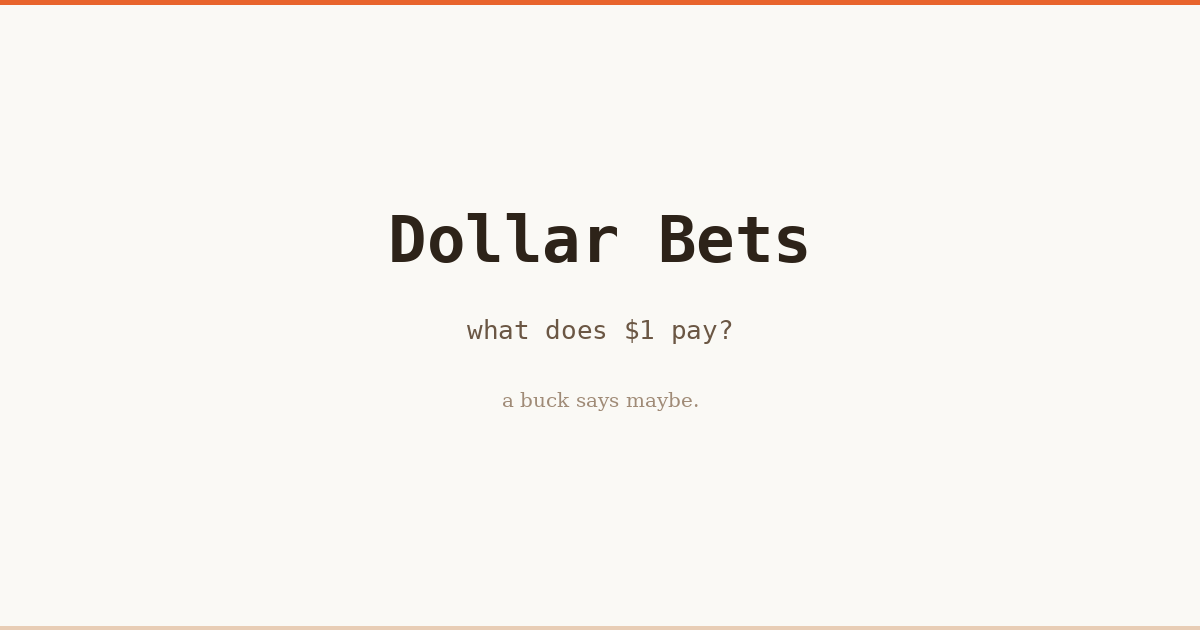
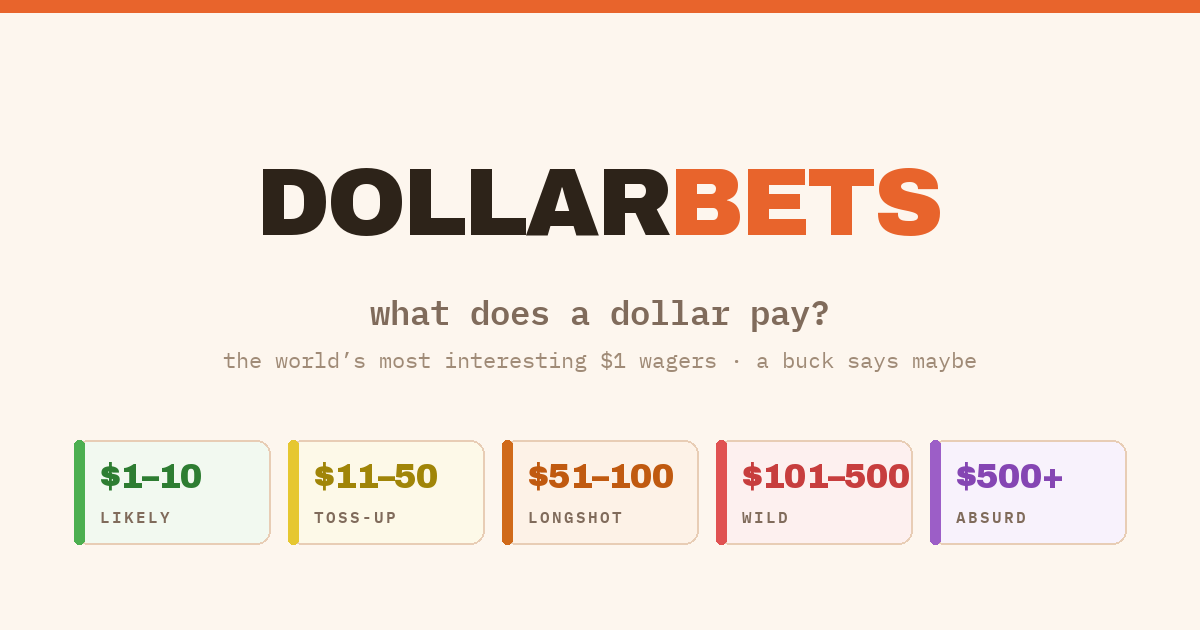
Link previews: today's longshot for the board, a new brand image for everything else (#19)
The reply under each card links to the board, and X showed the site-wide
og-image.png from April — a serif logo on cream. Two changes:

- share_card.render_og_board() draws a 1200x630 dark ticket of the day's
  filthy little longshot; generate.py writes it to /og-board.png on every
  deploy and the homepage's og:image / twitter:image point at it
  (page_shell gains og_image=; every other page keeps the site-wide image).
- src/og-image.png regenerated in the Ticket Stand style (wordmark, tagline,
  the five tier chips) by share_card.render_og_brand().
- The reply link carries utm_content=<board date>, so X fetches a fresh
  link card each day instead of serving the one it cached for the bare URL.

diff --git a/share_card.py b/share_card.py
@@ -436,6 +436,115 @@ def render_card(market, variant, output_path, board_date="", fonts_dir=None, pho
     img.save(output_path, "PNG", optimize=True)
     return True
 
+# ── Link-preview images (1200×630) ─────────────────────────────────────────
+
+OG_W, OG_H = 1200, 630
+
+
+def render_og_board(market, board_date, output_path, fonts_dir=None):
+    """The homepage link preview: today's filthy little longshot as a wide dark
+    ticket. Rebuilt on every deploy, so a link to the board shows today's
+    board, not a logo. Returns True on success."""
+    try:
+        from PIL import Image, ImageDraw
+    except ImportError:
+        return False
+    fonts_dir = fonts_dir or os.path.join(os.path.dirname(os.path.abspath(__file__)), ".fonts")
+    fonts = _Fonts(fonts_dir)
+    if not fonts.ok:
+        return False
+    _, _, _, bright = TIERS.get(market.get("tier", ""), TIER_DEFAULT)
+
+    img = Image.new("RGB", (OG_W, OG_H), INK)
+    draw = ImageDraw.Draw(img)
+    # notches on the long edges, like the ticket
+    ny = int(OG_H * 0.62)
+    for cx in (0, OG_W):
+        draw.ellipse((cx - 18, ny - 18, cx + 18, ny + 18), fill=PAPER)
+
+    x0, x1 = 64, OG_W - 64
+    y = 48
+    _wordmark(draw, fonts, x0, y, PAPER)
+    _draw_tracked(draw, (x1, y + 12), _stamp(board_date), fonts.mono(20, semibold=True), DARK_MUTE_2, 1, anchor_right=True)
+
+    y += 44 + 34
+    _draw_tracked(draw, (x0, y), "TODAY’S FILTHY LITTLE LONGSHOT", fonts.mono(18, semibold=True), LAVENDER, 4)
+    y += 18 + 22
+    f_title, lines, size = _fit_title(draw, market.get("title", ""), fonts, x1 - x0, sizes=(56, 48, 42), max_lines=3)
+    lh = int(size * 1.1)
+    for ln in lines:
+        _draw_tracked(draw, (x0, y), ln, f_title, PAPER, -1.2)
+        y += lh
+
+    # payout row on the baseline near the bottom
+    base_y = OG_H - 64
+    f_pays = fonts.mono(24, semibold=True)
+    pays_w = _text_w(draw, "$1 pays", f_pays)
+    payout_str = format_payout(market.get("payout", 0))
+    f_meta = fonts.mono(20, semibold=True)
+    platform = market.get("platform", "kalshi") or "kalshi"
+    pname = PLATFORM_NAMES.get(platform, platform.title())
+    pi = _priced_in(market.get("payout", 0))
+    meta = f"{pname} · {pi} priced in" if pi else pname
+    meta_w = _text_w(draw, meta, f_meta)
+    f_pay, psize = _fit_payout(draw, fonts, payout_str, 132, (x1 - x0) - pays_w - 20 - meta_w - 40, floor=80)
+    draw.text((x0, base_y), "$1 pays", font=f_pays, fill=DARK_MUTE, anchor="ls")
+    _draw_tracked(draw, (x0 + pays_w + 20, base_y), payout_str, f_pay, bright, -0.03 * psize, baseline=True)
+    _draw_tracked(draw, (x1, base_y - 4), meta, f_meta, DARK_MUTE_2, 0, anchor_right=True, baseline=True)
+    cap_top = f_pay.getbbox("0", anchor="ls")[1]
+    _dashed_h(draw, x0, x1, base_y + cap_top - 28, DARK_RULE, width=3)
+    _draw_tracked(draw, (x1, 48 + 44 + 34), "dollarbets.lol", fonts.mono(18), DARK_MUTE_2, 0, anchor_right=True)
+
+    os.makedirs(os.path.dirname(output_path) or ".", exist_ok=True)
+    img.save(output_path, "PNG", optimize=True)
+    return True
+
+
+def render_og_brand(output_path, fonts_dir=None):
+    """The site-wide link preview for every non-board page: wordmark, the
+    tagline, and the five payout tiers as ticket chips. Static; committed as
+    src/og-image.png."""
+    from PIL import Image, ImageDraw
+    fonts_dir = fonts_dir or os.path.join(os.path.dirname(os.path.abspath(__file__)), ".fonts")
+    fonts = _Fonts(fonts_dir)
+    img = Image.new("RGB", (OG_W, OG_H), PAPER)
+    draw = ImageDraw.Draw(img)
+    draw.rectangle((0, 0, OG_W, 12), fill=ORANGE)
+
+    f = fonts.display(96, 900)
+    w = _tracked_w(draw, "DOLLAR", f, -3)
+    total = w + _tracked_w(draw, "BETS", f, -3) - 3
+    x = (OG_W - total) // 2
+    _draw_tracked(draw, (x, 150), "DOLLAR", f, INK, -3)
+    _draw_tracked(draw, (x + w - 3, 150), "BETS", f, ORANGE, -3)
+
+    tag = "what does a dollar pay?"
+    ft = fonts.mono(34, semibold=True)
+    draw.text(((OG_W - _text_w(draw, tag, ft)) // 2, 290), tag, font=ft, fill=INK_2)
+    sub = "the world’s most interesting $1 wagers · a buck says maybe"
+    fs = fonts.mono(22)
+    draw.text(((OG_W - _text_w(draw, sub, fs)) // 2, 345), sub, font=fs, fill=INK_3)
+
+    # tier chips
+    chips = [("green", "$1–10", "likely"), ("yellow", "$11–50", "toss-up"), ("orange", "$51–100", "longshot"),
+             ("red", "$101–500", "wild"), ("purple", "$500+", "absurd")]
+    cw, ch, gap = 196, 104, 18
+    x = (OG_W - (cw * 5 + gap * 4)) // 2
+    y = 440
+    fa = fonts.display(34, 900)
+    fl = fonts.mono(16, semibold=True)
+    for tier, amount, label in chips:
+        bar, wash, ink_t, _ = TIERS[tier]
+        draw.rounded_rectangle((x, y, x + cw, y + ch), radius=14, fill=wash, outline=RULE, width=2)
+        draw.rounded_rectangle((x, y, x + 10, y + ch), radius=5, fill=bar)
+        _draw_tracked(draw, (x + 26, y + 18), amount, fa, ink_t, -1)
+        _draw_tracked(draw, (x + 26, y + 66), label.upper(), fl, INK_2, 2)
+        x += cw + gap
+
+    os.makedirs(os.path.dirname(output_path) or ".", exist_ok=True)
+    img.save(output_path, "PNG", optimize=True)
+    return True
+
 
 def safe_ticker(ticker):
     """Same sanitisation generate.py applies to the share directory name."""

diff --git a/scripts/daily_tweets.py b/scripts/daily_tweets.py
@@ -289,14 +289,19 @@ TCO_LEN = 23
 TWEET_MAX = 280
 
 
-def share_url_for(market: dict, utm: bool = True) -> str:
+def share_url_for(market: dict, utm: bool = True, date: str = "") -> str:
     """The link in the reply. The board itself, not the /share/ page: share
-    pages only exist for the latest board and a slot can post a day later."""
+    pages only exist for the latest board and a slot can post a day later.
+    The board date rides along as utm_content so X fetches a fresh link card
+    each day instead of serving the one it cached for the bare URL."""
     url = f"{SITE_URL}/"
-    return url + "?utm_source=x&utm_medium=daily_card" if utm else url
+    if not utm:
+        return url
+    q = "?utm_source=x&utm_medium=daily_card"
+    return url + q + (f"&utm_content={date}" if date else "")
 
 
-def build_tweet_text(market: dict, link_mode: str) -> tuple[str, str | None]:
+def build_tweet_text(market: dict, link_mode: str, date: str = "") -> tuple[str, str | None]:
     """Return (main_text, reply_text_or_none).
 
     The card image carries the title and the payout, so the text is the quip
@@ -309,7 +314,7 @@ def build_tweet_text(market: dict, link_mode: str) -> tuple[str, str | None]:
     if len(body) > TWEET_MAX:
         body = body[:TWEET_MAX - 1].rstrip() + "…"
 
-    url = share_url_for(market)
+    url = share_url_for(market, date=date)
 
     if link_mode == "inline":
         main = f"{body}\n\n{url}"
@@ -351,8 +356,8 @@ def build_telegram_caption_html(market: dict, share_url: str) -> str:
     )
 
 
-def build_queue_entry(market: dict, rank: int, reason: str, link_mode: str, variant: str) -> dict:
-    main, reply = build_tweet_text(market, link_mode)
+def build_queue_entry(market: dict, rank: int, reason: str, link_mode: str, variant: str, date: str = "") -> dict:
+    main, reply = build_tweet_text(market, link_mode, date)
     safe = safe_ticker(market.get("ticker", ""))
     share_url = f"{SITE_URL}/share/{safe}/"
     return {
@@ -525,8 +530,8 @@ def post_slot(date: str, slot: int) -> None:
     link_mode = content.get("x_link_mode", "reply")
     # Queue entries written before 2026-09-20 carry a /share/ link that 404s
     # once the board rolls. Rebuild the link at post time from the entry.
-    if reply_text and "/share/" in reply_text:
-        _, reply_text = build_tweet_text(_market_from_entry(entry), link_mode)
+    if reply_text and ("/share/" in reply_text or "utm_content=" not in reply_text):
+        _, reply_text = build_tweet_text(_market_from_entry(entry), link_mode, date)
         content["x_reply_text"] = reply_text
         log("rewrote a stale /share/ reply link")
     if not tweet_text:
@@ -691,13 +696,13 @@ def ensure_queue(link_mode: str) -> str:
     for p in picks:
         selections.append(build_queue_entry(
             market=by_ticker[p["ticker"]], rank=p.get("rank"),
-            reason=(p.get("reason") or "").strip(), link_mode=link_mode, variant="tile",
+            reason=(p.get("reason") or "").strip(), link_mode=link_mode, variant="tile", date=date,
         ))
     if hero:
         selections.append(build_queue_entry(
             market=hero, rank=SLOTS,
             reason="today's filthy little longshot — the board's own hero pick",
-            link_mode=link_mode, variant="ticket",
+            link_mode=link_mode, variant="ticket", date=date,
         ))
 
     write_queue_file(date, {

diff --git a/generate.py b/generate.py
@@ -1458,7 +1458,8 @@ def footer_info_nav():
     return f'    <div class="footer-info-nav">\n        {items}\n    </div>\n'
 
 
-def page_shell(title, description, body, canonical="", noindex=False, current_nav="", extra_head="", sticky_html=None, compact_header=False, show_signup=True, article=False):
+def page_shell(title, description, body, canonical="", noindex=False, current_nav="", extra_head="", sticky_html=None, compact_header=False, show_signup=True, article=False, og_image=None):
+    og_image_url = og_image or f"{SITE_URL}/og-image.png"   # board pages pass the daily card
     """Wrap body content in the full HTML shell.
 
     `sticky_html` — optional pre-built fixed bottom bar; replaces the default
@@ -1548,14 +1549,14 @@ def page_shell(title, description, body, canonical="", noindex=False, current_na
   <meta property="og:type" content="website">
   <meta property="og:url" content="{SITE_URL}{safe_canonical}">
   <meta property="og:site_name" content="Dollar Bets">
-  <meta property="og:image" content="{SITE_URL}/og-image.png">
+  <meta property="og:image" content="{og_image_url}">
   <meta property="og:image:width" content="1200">
   <meta property="og:image:height" content="630">
   <meta property="og:image:type" content="image/png">
   <meta name="twitter:card" content="summary_large_image">
   <meta name="twitter:title" content="{safe_title}">
   <meta name="twitter:description" content="{safe_desc}">
-  <meta name="twitter:image" content="{SITE_URL}/og-image.png">
+  <meta name="twitter:image" content="{og_image_url}">
   <link rel="icon" type="image/svg+xml" href="/favicon.svg">
   <link rel="icon" type="image/png" sizes="32x32" href="/favicon-32x32.png">
   <link rel="icon" type="image/png" sizes="16x16" href="/favicon-16x16.png">
@@ -2461,7 +2462,7 @@ def generate_daily_board(boards):
   "itemListElement": [{", ".join(market_items)}]
 }}</script>"""
 
-    html = page_shell(
+    html = page_shell(og_image=f"{SITE_URL}/og-board.png", 
         title="Dollar Bets: What Does $1 Pay?",
         description="A buck says maybe. Daily board of the internet's most entertaining wagers.",
         body=body,
@@ -4024,6 +4025,18 @@ def main():
     # 6. Per-bet share pages + OG images
     print("[generate] Building share pages...")
     generate_share_pages(boards)
+
+    # Homepage link preview: today's longshot as a wide ticket (share_card.py).
+    # Rebuilt every deploy so a shared board link shows today's board.
+    try:
+        from share_card import render_og_board
+        _d, _data = boards[-1]
+        _b = _data.get("board", [])
+        _hero = select_filthy_longshot(_b)
+        if _hero is not None and render_og_board(_b[_hero], _d, os.path.join(OUTPUT_DIR, "og-board.png")):
+            print("[generate] Wrote og-board.png")
+    except Exception as e:  # never block the build on a preview image
+        print(f"[generate] WARNING: og-board.png failed: {e}")
 
     # 7. About page
     print("[generate] Building about page...")
